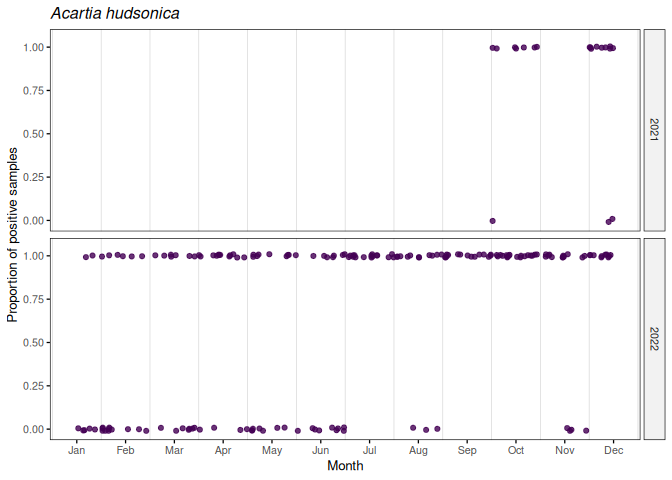
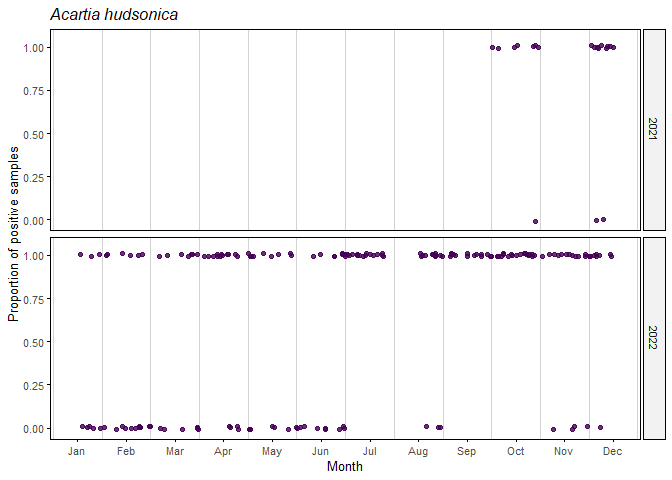
update thresh_fig.png in README

diff --git a/README.md b/README.md
@@ -116,7 +116,7 @@ smooth_fig(
 
 ``` r
 thresh_fig(taxon.level = "species", taxon.name = "Acartia hudsonica", 
-  threshold = "90", ecodistrict.select = "Scotian Shelf", scaledprobs)
+  threshold = "75", ecodistrict.select = "Scotian Shelf", scaledprobs)
 ```
 
 <img src="man/figures/README-thresh_fig-1.png" width="100%" />
